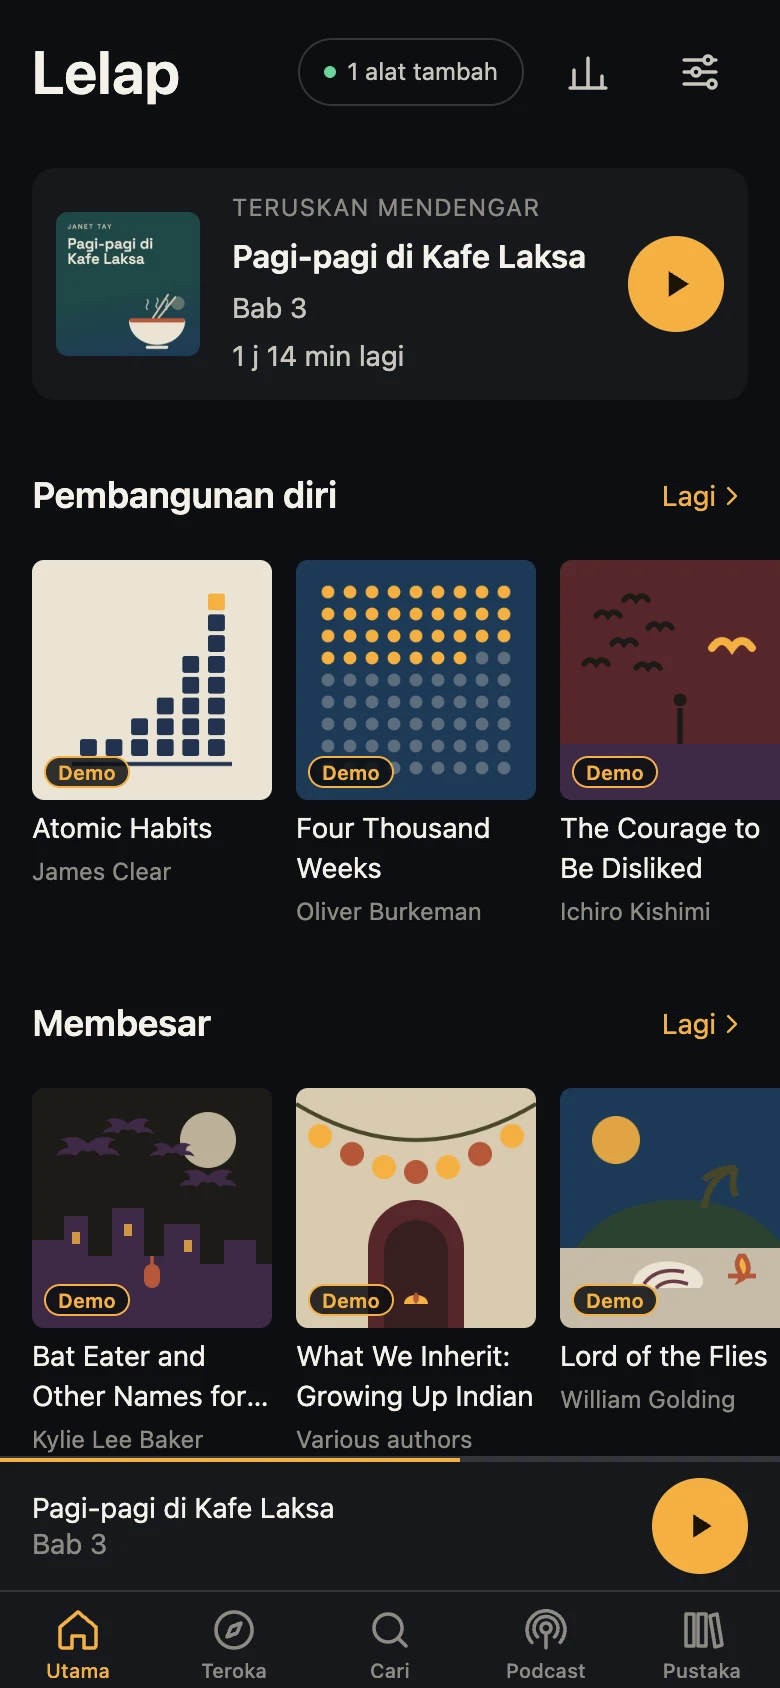
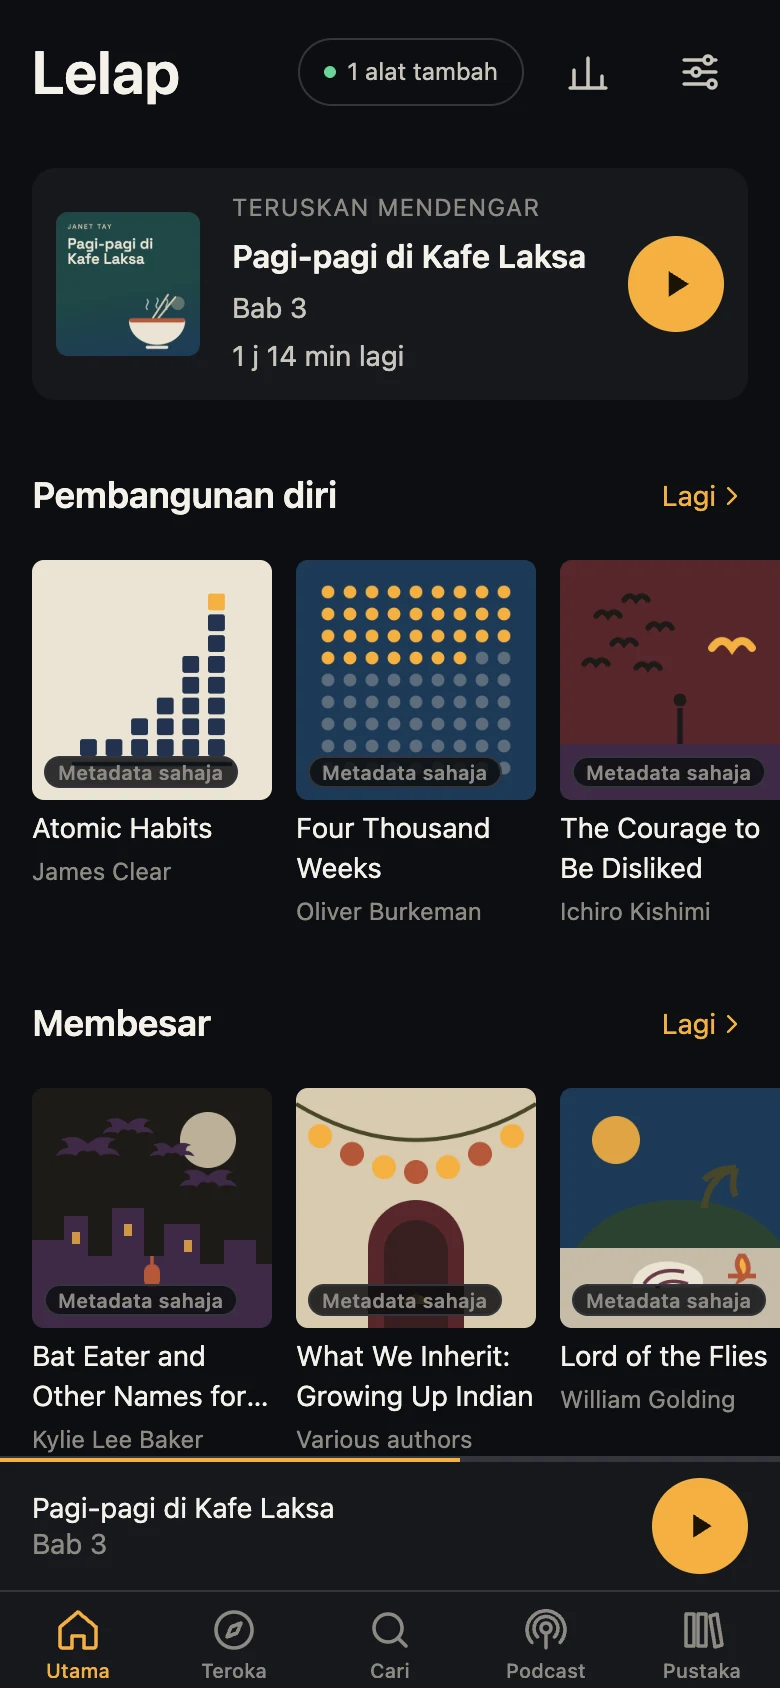
M97: review fixes for the screenshots, help and changelog
Shelf books are metadata only in the demo, the skill fails loudly on a
missing Malay line and when Chrome goes away, the help page matches the
app on smart rewind and downloads, and changelog links are named.

diff --git a/apps/site/test/changelog.test.ts b/apps/site/test/changelog.test.ts
@@ -84,4 +84,16 @@ A paragraph.
     }
     expect(new Set(releases.map((r) => r.id)).size).toBe(releases.length);
   });
+
+  it('meets no Markdown the page would show raw', () => {
+    const markdown = readFileSync(new URL('../../../CHANGELOG.md', import.meta.url), 'utf8');
+    const texts = parseChangelog(markdown)
+      .flatMap((r) => [...r.intro, ...r.groups.flatMap((g) => g.blocks)])
+      .flatMap((b) => (b.kind === 'p' ? [b.text] : b.items))
+      .flat()
+      .flatMap((part) => (part.kind === 'text' ? [part.value] : []));
+    // Links, bold and nested lists are not read by src/lib/changelog.ts; teach it first.
+    expect(texts.filter((text) => /\]\(|\*\*/.test(text))).toEqual([]);
+    expect(markdown.split('\n').filter((line) => /^\s+[-*] /.test(line))).toEqual([]);
+  });
 });

diff --git a/.claude/skills/site-screenshots/SKILL.md b/.claude/skills/site-screenshots/SKILL.md
@@ -1,6 +1,6 @@
 ---
 name: site-screenshots
-description: Use when the landing page's app screenshots (apps/site/src/assets/screens) are out of date after a UI change, when asked to regenerate, retake or add screenshots of the Lelap app for the site, or when the demo library of made-up books needs a new book, row or screen.
+description: Use when the landing page's app screenshots (apps/site/src/assets/screens) are out of date after a UI change, when asked to regenerate, retake or add screenshots of the Lelap app for the site, or when the demo library behind them needs a new book, row or screen.
 ---
 
 # Site screenshots
@@ -16,7 +16,9 @@ node .claude/skills/site-screenshots/shoot.mjs            # export the web app, 
 node .claude/skills/site-screenshots/shoot.mjs --reuse-export --lang ms --debug
 ```
 
-Node 24 and Google Chrome (or `CHROME=/path/to/chrome`). The export takes a minute or two;
+`--lang` can be given more than once; `--port` changes 8197 (the export bakes the port in, so
+change it only together with a fresh export). Node 24 and Google Chrome (or
+`CHROME=/path/to/chrome`). The export takes a minute or two;
 `--reuse-export` skips it when only the flow or the library changed, never after an app change.
 `--debug` saves a picture after the first play; a failure always saves the last screen as
 `failed.png` in the work folder (`--work`, default `$TMPDIR/lelap-site-screenshots`).
@@ -25,23 +27,25 @@ Then look at all four files before committing: Read each WebP and check the list
 
 ## What it does
 
-| Step   | Where                         | What                                                                                                                                                                                                                                 |
-| ------ | ----------------------------- | ------------------------------------------------------------------------------------------------------------------------------------------------------------------------------------------------------------------------------------ |
-| Export | `shoot.mjs` `exportApp`       | `expo export --platform web` with `EXPO_PUBLIC_LELAP_ADDONS` set to the demo add-on and the proxy, sync and downloads hosts set to the local server, so nothing reaches lelap.app.                                                   |
-| Serve  | `shoot.mjs` `serve`           | One port (8197): the exported app, the demo add-on (`/demo/…`), covers, silent WAV audio made on the fly with range requests, and a stand-in for the proxy's `/cover` (the web app sends plain-http covers there, the player twice). |
-| Seed   | `library.mjs`                 | The made-up library: Early Mornings at the Laksa Café by Janet Tay, six chapters, and the rows Self-improvement, Growing up, Horror and uncanny. Real shelf titles, our own drawn covers. English and Malay lines.                   |
-| Covers | `library.mjs`, `renderCovers` | Chrome draws each cover to a 600 px PNG; the hero cover uses the site's own fonts.                                                                                                                                                   |
-| Drive  | `shootLanguage`, `chrome.mjs` | A fresh browser context per language (empty OPFS, so no real data). Clicks go by the app's own labels from `apps/app/src/i18n/catalogs/<lang>.json`, so a renamed button fails loudly instead of shooting the wrong screen.          |
-| Save   | `save`                        | `{home,player}-{en,ms}.webp`, 780 × 1688 (390 × 844 at 2×), quality 88. Astro's `<Picture>` makes the 300 and 600 px AVIF and WebP sizes.                                                                                            |
+| Step   | Where                         | What                                                                                                                                                                                                                                                                                                                   |
+| ------ | ----------------------------- | ---------------------------------------------------------------------------------------------------------------------------------------------------------------------------------------------------------------------------------------------------------------------------------------------------------------------- |
+| Export | `shoot.mjs` `exportApp`       | `expo export --platform web` with `EXPO_PUBLIC_LELAP_ADDONS` set to the demo add-on, the proxy, sync, downloads and updates hosts set to the local server, and the domain set to `demo.invalid`, so nothing reaches lelap.app.                                                                                         |
+| Serve  | `shoot.mjs` `serve`           | One port (8197): the exported app, the demo add-on (`/demo/…`), covers, silent WAV audio made on the fly with range requests, and a stand-in for the proxy's `/cover` (the web app sends plain-http covers there, the player twice).                                                                                   |
+| Seed   | `library.mjs`                 | The demo library: the made-up Early Mornings at the Laksa Café by Janet Tay, six chapters of silent audio, and the rows Self-improvement, Growing up, Horror and uncanny. Those shelves are real titles with our own drawn covers and no audio (metadata only, as a reading list's would be). English and Malay lines. |
+| Covers | `library.mjs`, `renderCovers` | Chrome draws each cover to a 600 px PNG; the hero cover uses the site's own fonts.                                                                                                                                                                                                                                     |
+| Drive  | `shootLanguage`, `chrome.mjs` | A fresh browser context per language (empty OPFS, so no real data). Clicks go by the app's own labels from `apps/app/src/i18n/catalogs/<lang>.json`, so a renamed button fails loudly instead of shooting the wrong screen.                                                                                            |
+| Save   | `save`                        | `{home,player}-{en,ms}.webp`, 780 × 1688 (390 × 844 at 2×), quality 88. Astro's `<Picture>` makes the 300 and 600 px AVIF and WebP sizes.                                                                                                                                                                              |
 
 The flow: Home loads the add-on's rows; for Malay, Settings → language; open the Laksa book and
-Play; jump (tap the elapsed time) to 53:56, which is chapter 3 at 12:04; reload; shoot Home with
+Play; jump (tap the elapsed time) to 53:56, which is chapter 3 at 12:04; load `/` again, which
+starts the app afresh; shoot Home with
 Continue listening; tap it; speed 1.25×, sleep 30 minutes, jump again; shoot the Player.
 
 ## Before committing, check each picture
 
-- Only made-up data: the demo add-on (badge “Demo”), the Laksa book, the drawn covers. No real
-  covers, no file names, no other add-ons.
+- Only demo data: the demo add-on, the made-up Laksa book as the only one with audio, the shelf
+  titles marked “Metadata only”, the drawn covers. No real covers, no file names, no other
+  add-ons, nothing that looks playable from the shelves.
 - The same state in English and Malay, and the Malay one fully in Malay apart from book titles.
 - Covers loaded (no grey squares), no sheet or dialog left open, no error text.
 - It still matches the alt texts in `AppScreen.astro` and their Malay lines in
@@ -50,13 +54,15 @@ Continue listening; tap it; speed 1.25×, sleep 30 minutes, jump again; shoot th
 
 ## Changing what is shot
 
-- **A label changed in the app:** the run stops at “Timed out waiting for …”. Open `failed.png`,
+- **A label changed in the app:** the run stops at “Timed out waiting for …” (or “The app has no
+  ms line for …” when the Malay line is missing). Open `failed.png`,
   update the label in `shootLanguage`. Write the English text: it is the key, so there is no
   `en.json`; the Malay comes from `apps/app/src/i18n/catalogs/ms.json`.
 - **A new screen:** add a step that ends in `shots.<name> = await page.screenshot()`, import the
   file in `AppScreen.astro` with an alt text through `t()` and a Malay line.
 - **A new book or row:** add it in `library.mjs` with a drawn cover in `art`; keep the colours to
-  the cover palette at the top, so amber stays the only accent.
+  the cover palette at the top, so amber stays the only accent. A book with audio is made up; a
+  real title stays metadata only.
 - **A new language:** add its lines to `TEXT` in `library.mjs`; the app must have the catalog.
 
 ## Limits

diff --git a/docs/milestones/m97.md b/docs/milestones/m97.md
@@ -1,7 +1,7 @@
 ---
 title: Landing page 3
 status: in progress
-summary: Real app screenshots with made-up books, a changelog page and help
+summary: Real app screenshots from a demo library, a changelog page and help
 prs: []
 ---
 
@@ -13,20 +13,22 @@ prs: []
   `<Picture>` as AVIF and WebP at 300 and 600 px. The app has one dark theme, so the frame keeps
   the night theme on both site themes, as the mock-ups did.
 - **The `site-screenshots` skill** (`.claude/skills/site-screenshots/`) makes them: it exports the
-  web app against a local demo add-on (made-up books, drawn covers rendered by Chrome, silent WAV
-  audio made on the fly), drives a headless Chrome with a fresh profile through the app's own
+  web app against a local demo add-on (a made-up book with silent WAV audio made on the fly,
+  the shelves' real titles as metadata only, drawn covers rendered by Chrome), drives a headless Chrome with a fresh profile through the app's own
   buttons, and writes the WebP files. No Playwright: the Chrome DevTools Protocol over Node's own
   WebSocket. Expo web only; Android-only screens are not shot.
 - **Changelog page** (`/changelog`), built from the root `CHANGELOG.md` at build time by
   `src/lib/changelog.ts`, with pull request numbers linked; static, no script.
 - **Help page** (`/help`): getting started, add-ons (why there is no add-on directory), your
-  library, listening, and what to do when something doesn't work. English only, like the docs.
+  library, listening, and what to do when something doesn’t work. English only, like the docs.
   The home page FAQ answer on third-party add-ons uses the same wording and links to it; the
   footer links both pages.
 
 Found on the way, not fixed here (app code): on the web, the player asks the proxy for a
 plain-http cover with an already proxied address; and at 390 px the player's last tool reads
-“0 bookm…” in English.
+“0 bookm…” in English. Outside this milestone's folders: `.github/workflows/site.yml` deploys
+only on changes under `apps/site/`, so `/changelog` updates with the next site deploy after a
+release, not with the release itself; adding `CHANGELOG.md` to its paths fixes that.
 
 ## Open checks
 

diff --git a/docs/roadmap.md b/docs/roadmap.md
@@ -106,7 +106,7 @@ Decisions and architecture live in [`brief.md`](brief.md).
 | [M94 Tests against real servers](milestones/m94.md)  | Done        |           1 | WebDAV and S3 servers in CI, and an emulator smoke test of the app                                       |
 | [M95 Self-hosting 2](milestones/m95.md)              | Done        |           3 | One-command setup, a small admin page and backup guides                                                  |
 | [M96 Security review 2](milestones/m96.md)           | Planned     |             | A new audit of what has landed since M19                                                                 |
-| [M97 Landing page 3](milestones/m97.md)              | In progress |           4 | Real app screenshots with made-up books, a changelog page and help                                       |
+| [M97 Landing page 3](milestones/m97.md)              | In progress |           4 | Real app screenshots from a demo library, a changelog page and help                                      |
 | [M98 Developer verification](milestones/m98.md)      | Planned     |             | Google's developer verification for sideloaded apps                                                      |
 | [M99 Languages 3](milestones/m99.md)                 | Planned     |             | Media3's own notification texts, saved English chapter names, raw native error details                   |
 | [M100 Server sources 3](milestones/m100.md)          | Planned     |             | Places sent while the app is closed, and Plex addresses that follow the server                           |

diff --git a/apps/site/AGENTS.md b/apps/site/AGENTS.md
@@ -24,8 +24,8 @@ The landing page for lelap.app. Astro, static output, no client-side framework.
   (`.night`) keep the night theme. Amber is the only accent: `--accent` for text and icons (darker
   by day), `--accent-fill` for amber surfaces. `test/contrast.test.ts` checks every text pair
   against WCAG AA; add a new token or pair there.
-- **Pictures of the app** are screenshots of the real app with a demo library of made-up books,
-  in `src/assets/screens/` and shown by `src/components/AppScreen.astro`. Make them with the
+- **Pictures of the app** are screenshots of the real app with a demo library (a made-up book
+  with audio, shelves of real titles as metadata only, drawn covers), in `src/assets/screens/` and shown by `src/components/AppScreen.astro`. Make them with the
   `site-screenshots` skill (`.claude/skills/site-screenshots/`), never by hand from a real library.
   Rerun it after a UI change to the screens they show.
 - **Languages:** the home page exists in English (`/`) and Bahasa Melayu (`/ms/`), both rendered
